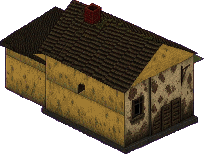
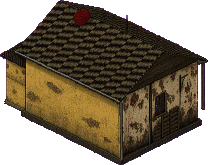
Businesses: the hands seen through the glass; the Builder's pictures of the three
The room in each building has its hands at their stations (crew_figures, the
place's own crew_places, lit by the room's lights); the pub's, the bistro's and the
Jednota's four views rendered again from the new models and repainted by Grok.

diff --git a/TODO.md b/TODO.md
@@ -96,13 +96,13 @@ keeps its painted frames and loses its panes; the same room is built inside the 
 in the camp (the layout's own code, without its click boxes) behind real glass, lit as the
 place is (open, the hour), its hands at their stations; inside, every window is a real view
 out from where it stands.
-- [ ] The pub: the house 6.0 x 4.8 m from PUB_LAYOUT.SIZE, the front padded with its plaster
+- [x] The pub: the house 6.0 x 4.8 m from PUB_LAYOUT.SIZE, the front padded with its plaster
   and its two windows cut, the side's barred window moved to the middle of the left wall
   (where the room's window is), the front's two windows in the room (the photos moved)
-- [ ] The bistro: the dining room behind the front's long windows (the kitchen beside it)
-- [ ] The Jednota: the shop behind its windows (the painted goods give way to the real racks)
-- [ ] The hands seen at their stations from outside; the lamps by the hours; co-op the same
-- [ ] The Builder's pictures of the three rendered again (Grok, a sample first)
+- [x] The bistro: the dining room behind the front's long windows (the kitchen not in the building)
+- [x] The Jednota: the shop behind its windows (the painted goods give way to the real racks; the back rack's goods are the station's, so from outside it stands empty)
+- [x] The hands seen at their stations from outside (crew_figures in the room, not checked by a shot yet); the lamps by the hours; co-op the same (the clock and the books)
+- [x] The Builder's pictures of the three rendered again (Grok iso4_*_b)
 
 ## POHYB, KAMERA, INTERAKCE — 2026-10-21 (the user: "it still feels a bit like I'm a spectator, a car, a tank"; "the trees and the world are static, we need to finish all of it")
 
